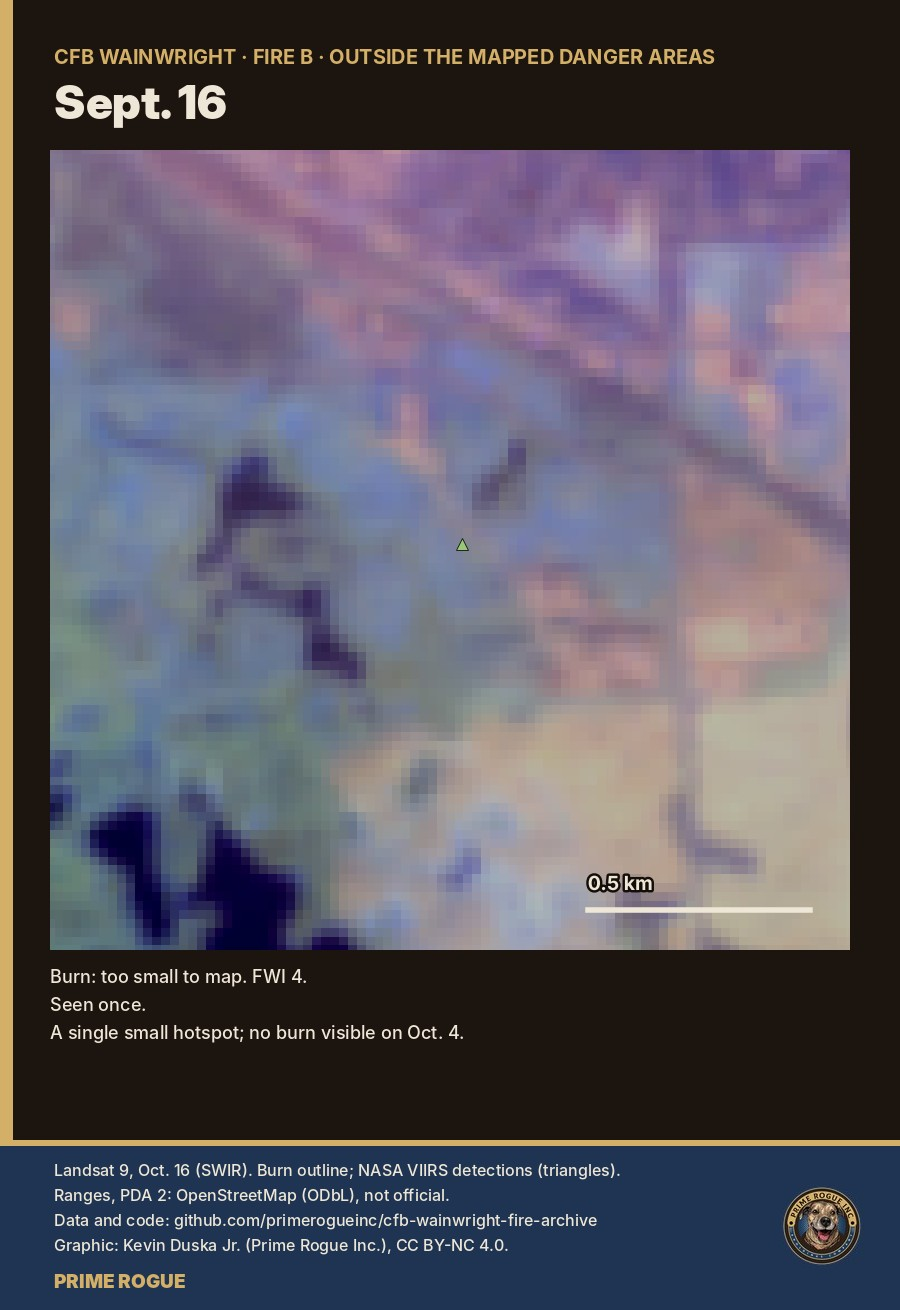
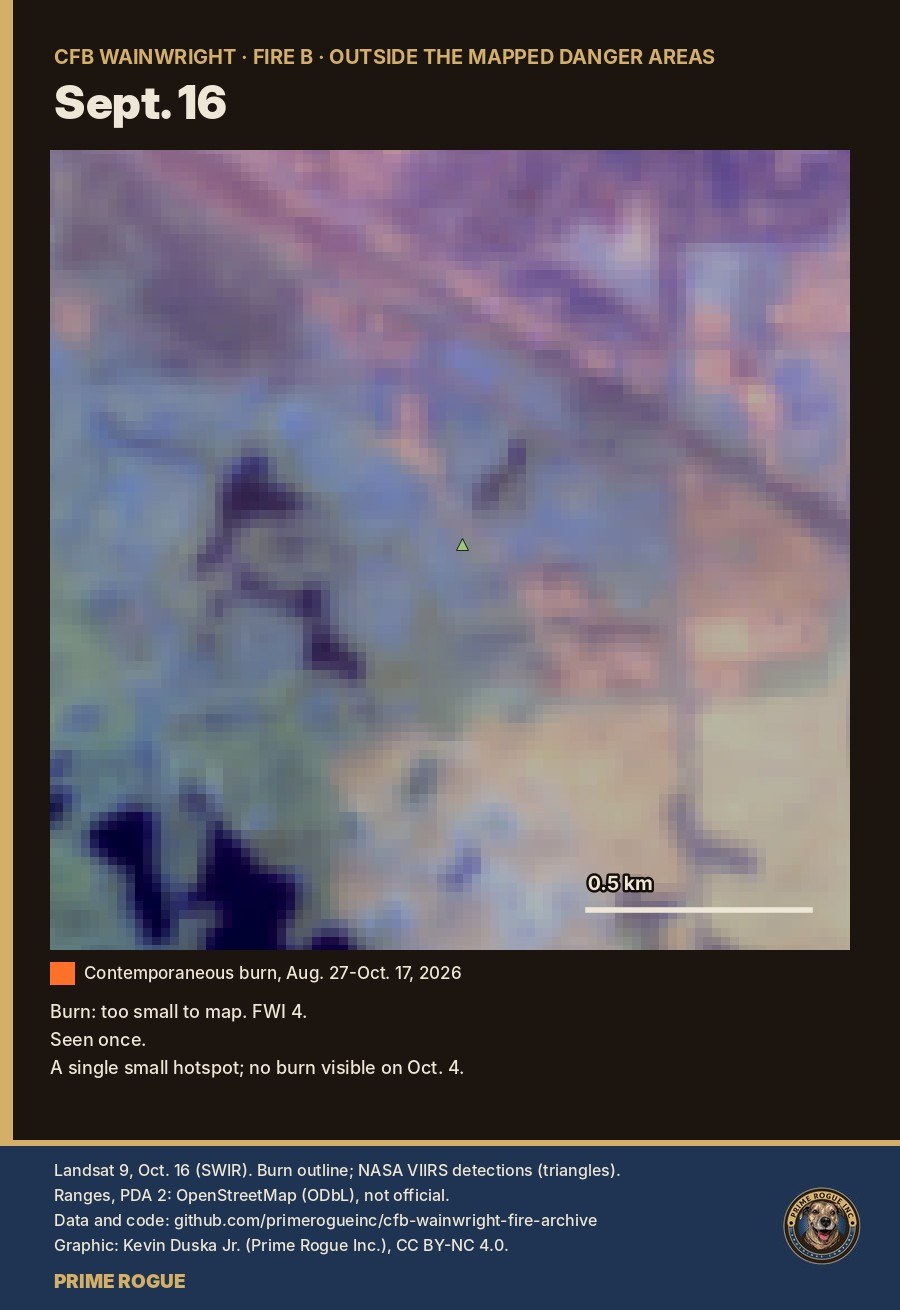
Fire maps: one fill colour for every contemporaneous burn (Aug. 27-Oct. 17, 2026), with legend; Sept. 18-20 labelled as one fire
Claude-Session: https://claude.ai/code/session_012q8DP5dH322QPmsftUvE6c

Changed region(s): [[0.0311, 0.7328, 0.4667, 0.8244], [0.4667, 0.7328, 0.4978, 0.7634]]

diff --git a/scripts/maps/g35_oct14_fire.py b/scripts/maps/g35_oct14_fire.py
@@ -34,16 +34,16 @@ SEPT = gpd.GeoSeries([_shape(g) for g, v in _ft.shapes(sept.astype("uint8"), mas
 lo, hi = np.percentile(rgb, 2, axis=(0, 1)), np.percentile(rgb, 98, axis=(0, 1)); rgb = np.clip((rgb - lo) / (hi - lo), 0, 1) * 0.75
 f, ax = fig(860, 860); ax.imshow(rgb, extent=[x0, x0 + W_ * RES, y0 - H_ * RES, y0])
 pda2.boundary.plot(ax=ax, color=hx(GOLD), lw=1.6, ls="--")
-s17.boundary.plot(ax=ax, color=hx(CREAM), lw=1.2)
-SEPT.plot(ax=ax, color=hx((214, 140, 60)), alpha=0.5, lw=0); SEPT.boundary.plot(ax=ax, color=hx((214, 140, 60)), lw=1.0)
-BR[BR.name == "oct14_burn"].plot(ax=ax, color=hx(RED), alpha=0.75, lw=0); BR[BR.name == "oct14_burn"].boundary.plot(ax=ax, color=hx(RED), lw=1.5)
+s17.plot(ax=ax, color=hx((255, 112, 40)), alpha=0.45, lw=0); s17.boundary.plot(ax=ax, color=hx(CREAM), lw=1.2)
+SEPT.plot(ax=ax, color=hx((255, 112, 40)), alpha=0.45, lw=0); SEPT.boundary.plot(ax=ax, color=hx((214, 140, 60)), lw=1.0)
+BR[BR.name == "oct14_burn"].plot(ax=ax, color=hx((255, 112, 40)), alpha=0.45, lw=0); BR[BR.name == "oct14_burn"].boundary.plot(ax=ax, color=hx(RED), lw=1.5)
 fx, fy = tf(F.longitude.values, F.latitude.values); ax.plot(fx, fy, "^", ms=6, mfc="none", mec=hx(YEL), mew=1.4)
 vx, vy = tf(-110.93891, 52.75486); ax.plot(vx, vy, "^", ms=12, mfc=hx(YEL), mec=hx(INK), mew=1.2)
 ig = fit["_sunset"]["top15"][:6]; ix, iy = tf([p["lon"] for p in ig], [p["lat"] for p in ig]); ax.plot(ix, iy, "x", ms=9, mew=2.4, color="white")
 st = dict(color=hx(CREAM), fontsize=13, weight="bold", path_effects=[pe.withStroke(linewidth=3.5, foreground=hx(INK))])
 for nm, (lo_, la_), off in (("Range 11", (-110.9577, 52.7678), (-70, 8)), ("Range 13", (-110.94249, 52.75627), (-82, 2)), ("Range 2", (-110.9063, 52.7728), (8, 6))):
     x, y = tf(lo_, la_); ax.plot(x, y, "o", ms=8, mfc="white", mec="k"); ax.annotate(nm, (x, y), off, textcoords="offset points", **st)
-for txt, (lo_, la_), c in (("Oct. 17 burn", (-110.905, 52.792), CREAM), ("Sept. 20 burn", (-110.905, 52.733), (240, 170, 90)), ("Oct. 14 burn", (-110.975, 52.742), RED), ("Permanent Danger Area 2\n(OpenStreetMap)", (-110.982, 52.792), GOLD)):
+for txt, (lo_, la_), c in (("Oct. 17 burn", (-110.905, 52.792), CREAM), ("Sept. 18-20 burn", (-110.905, 52.733), (240, 170, 90)), ("Oct. 14 burn", (-110.975, 52.742), RED), ("Permanent Danger Area 2\n(OpenStreetMap)", (-110.982, 52.792), GOLD)):
     x, y = tf(lo_, la_); ax.text(x, y, txt, color=hx(c), fontsize=14, weight="bold", path_effects=[pe.withStroke(linewidth=3.5, foreground=hx(INK))])
 ax.set_xlim(x0, x1); ax.set_ylim(y1, y0); ax.set_axis_off(); f.subplots_adjust(0, 0, 1, 1); mp = to_img(f)
 # right panel: how big it should have been
@@ -59,8 +59,8 @@ a2.set_xticks(range(3)); a2.set_xticklabels(cats, color=hx(CREAM), fontsize=12);
 a2.grid(axis="y", color=hx(GRIDC)); f2.subplots_adjust(0.12, 0.2, 0.98, 0.97); ch = to_img(f2)
 W, H = 1600, 1290
 im, d = canvas(W, H, "CFB WAINWRIGHT FIRE · BEFORE OCT. 17 · PERMANENT DANGER AREA 2",
-               "Two fires in the same danger area in the four weeks before Oct. 17",
-               f"Sept. 20: a fire of about {SEPT_KM2:.0f} km², first seen by satellite at 3:07 a.m. Oct. 14: a fire of about 1 km², seen once at 2:51 p.m.\n"
+               "Two fires in the same danger area in the month before Oct. 17",
+               f"Sept. 18-20: about {SEPT_KM2:.0f} km², first seen Sept. 18 at 3:14 p.m., still burning at 3:07 a.m. Sept. 20. Oct. 14: about 1 km², seen once at 2:51 p.m.\n"
                "Both burned inside Permanent Danger Area 2, the danger area the Provost Marshal says the Oct. 17 fire stayed in before the wind shift. Background: Landsat 9, Oct. 16.")
 im.paste(mp, (54, 200)); d = ImageDraw.Draw(im)
 xr = 54 + 860 + 40
@@ -72,10 +72,11 @@ for l, fnt, col in (("Free-burning at the standard grass-fire rate, a fire seen 
                     ("fire did before its wind shift, and started early, around", M(16), CREAM), ("6-8:30 a.m. (the earliest we tested). Or it was put out.", M(16), CREAM), ("", M(10), CREAM),
                     ("Satellite fire detections in the training area", B(18), GOLD),
                     ("Sept. 16  1:34 p.m.   north-east of the base", M(15), CREAM), ("Sept. 18  3:14 p.m.   PDA 2, about 5 km SE of the Oct. 14 burn", M(15), CREAM),
-                    ("Sept. 20  3:07 a.m. to 2:55 p.m.   PDA 2 (31 detections)", B(15), (240, 170, 90)), ("Sept. 21  1:42 p.m.   PDA 3A F1, 9.5 km west", M(15), CREAM),
+                    ("Sept. 20  3:07 a.m. to 2:55 p.m.   PDA 2, same fire (31)", B(15), (240, 170, 90)), ("Sept. 21  1:42 p.m.   PDA 3A F1, 9.5 km west", M(15), CREAM),
                     ("Oct. 14   2:51 p.m.   PDA 2, at Range 13", B(15), RED), ("Oct. 17   12:17 p.m. onward   PDA 2", B(15), CREAM)):
     d.text((xr, y), l, font=fnt, fill=col); y += 27
 lx, ly = 70, 200 + 860 - 90
+d.rectangle([lx, ly - 30, lx + 24, ly - 8], fill=(255, 112, 40)); label(d, (lx + 32, ly - 34), "Contemporaneous burn (outline: amber Sept. 18-20, red Oct. 14, white Oct. 17)", col=CREAM, size=15)
 for sym, txt in (("▲", "VIIRS detections: Sept. 20 (open), Oct. 14 (filled)"), ("x", "Best-fit start points for the Oct. 14 fire (model)")):
     label(d, (lx, ly), f"{sym}  {txt}", col=CREAM, size=15); ly += 34
 footer(im, ["Burns: Sentinel-2 Oct. 4 (L2A) vs Landsat 9 Oct. 16 (TOA), NBR thresholds per sensor (Oct. 14 burn 0.91-1.13 km² across thresholds); Sept. 20 burn as seen Oct. 4.",

diff --git a/scripts/maps/g36_fires_overview.py b/scripts/maps/g36_fires_overview.py
@@ -10,6 +10,8 @@ import matplotlib.patheffects as pe
 from matplotlib.patches import Rectangle
 tf = Transformer.from_crs(4326, 3400, always_xy=True).transform
 FC = REPO + "data/fire_compare/"
+BURN = (255, 112, 40)  # one fill for every burn from Aug. 27-Oct. 17, 2026
+LEG = "Contemporaneous burn, Aug. 27-Oct. 17, 2026"
 F = pd.read_csv(REPO + "data/firms/history_2012-2026/all_detections_merged.csv"); F = F[F.source.str.contains("VIIRS|LANDSAT") & (F.acq_date >= "2026-08-27") & (F.acq_date <= "2026-10-17")]
 F["mdt"] = pd.to_datetime(F.acq_date + " " + F.acq_time.astype(str).str.zfill(4)) - pd.Timedelta(hours=6)
 s17 = gpd.read_file(REPO + "data/infrastructure/scar_patches_revised.geojson").to_crs(3400); s17 = s17[s17.patch == "main Oct 17 run"]
@@ -40,7 +42,7 @@ def draw(ax, focus=None):
         c = g.representative_point(); ax.annotate(nm, (c.x, c.y), (4, 4), textcoords="offset points", **st(CREAM, 9 if focus is None else 11))
     for fid, lab, nm, dates, col, half in FIRES:
         g = s17 if fid == "oct17" else scar(fid)
-        if g is not None: g.boundary.plot(ax=ax, color=hx(col), lw=2.0 if focus == fid else 1.3)
+        if g is not None: g.plot(ax=ax, color=hx(BURN), alpha=0.45, lw=0); g.boundary.plot(ax=ax, color=hx(col), lw=2.0 if focus == fid else 1.3)
         d = F[F.acq_date.isin(dates)]
         if fid == "oct17": d = d[d.mdt.dt.hour < 15]
         else:
@@ -73,6 +75,7 @@ im, d = canvas(W, H, "CFB WAINWRIGHT FIRE · EVERY FIRE SATELLITES SAW, AUG. 27-
                "Boxes A-E on the overview map are shown up close below. Outlines: burn scars from Sentinel-2 (Oct. 4) and Landsat 9 (Oct. 16); triangles: NASA VIIRS fire detections.\n"
                "Background: Landsat 9 shortwave infrared, Oct. 16 (before the Oct. 17 fire; its outline is the final scar).")
 im.paste(OV, (54, 205)); d = ImageDraw.Draw(im)
+d.rectangle([70, 205 + 760 - 44, 96, 205 + 760 - 22], fill=BURN); label(d, (104, 205 + 760 - 48), LEG + "  (outline colour = fire A-E; A also includes older burns)", col=CREAM, size=15)
 # right column: comparison list
 xr = 54 + 980 + 30; y = 205
 d.text((xr, y), "How each fire behaved", font=B(22), fill=GOLD); y += 40
@@ -80,7 +83,7 @@ CMP = pd.read_csv(FC + "comparison.csv").set_index("fire")
 fwis = lambda v: (lambda a: f"{min(a):.0f}-{max(a):.0f}" if len(a) > 1 else f"{a[0]:.0f}")([float(x) for x in str(v).split(";")])
 def fmt(fid):
     if fid == "oct17": return ["Burned 10.8 km² (FWI 30.8, Extreme). Crept at about", "a sixth of the standard rate all day, then ran", "4.4-12 km/h after the 3:16 p.m. front. Four killed."]
-    if fid not in CMP.index and fid == "aug27_28": return ["Seen only at night: Aug. 27, 2:16-3:20 a.m.; Aug. 28, 2:16-3:58 a.m.", "Scar on Oct. 4 about 8.8 km², mixed with 2020-23 burns.", "Seen again Sept. 21, 1:42-3:23 p.m., same scar. (Model running.)"]
+    if fid not in CMP.index and fid == "aug27_28": return ["Seen only at night: Aug. 27 2:16-3:20, Aug. 28 2:16-3:58 a.m.", "Scar on Oct. 4 about 8.8 km², mixed with 2020-23 burns.", "Seen again Sept. 21, 1:42-3:23 p.m., same scar. (Model running.)"]
     if fid not in CMP.index: return ["(model running)"]
     c = CMP.loc[fid]; out = []
     sc = c.scar_km2
@@ -116,7 +119,8 @@ for fid, lab, nm, dates, col, half in FIRES:
     ax.plot([cx + half * 0.9 - sb, cx + half * 0.9], [cy - half * 0.9] * 2, color=hx(CREAM), lw=4); ax.text(cx + half * 0.9 - sb, cy - half * 0.85, f"{sb/1000:g} km", **st(CREAM, 14))
     f.subplots_adjust(0, 0, 1, 1); pimg = to_img(f)
     im2, d2 = canvas(900, 1310, f"CFB WAINWRIGHT · FIRE {lab} · {SUB[fid].upper()}", nm, None)
-    im2.paste(pimg, (50, 150)); d2 = ImageDraw.Draw(im2); yy = 965
+    im2.paste(pimg, (50, 150)); d2 = ImageDraw.Draw(im2); yy = 1000
+    d2.rectangle([50, 962, 74, 984], fill=BURN); d2.text((84, 962), LEG, font=M(17), fill=CREAM)
     for l in fmt(fid): d2.text((50, yy), l, font=M(18), fill=CREAM); yy += 28
     footer(im2, ["Landsat 9, Oct. 16 (SWIR). Burn outline; NASA VIIRS detections (triangles).", "Ranges, PDA 2: OpenStreetMap (ODbL), not official.", "Data and code: github.com/primerogueinc/cfb-wainwright-fire-archive", "Graphic: Kevin Duska Jr. (Prime Rogue Inc.), CC BY-NC 4.0."], fh=170)
     im2.convert("RGB").save(REPO + f"data/graphics_published/oct25_oct14_fire/cfb-wainwright-fire-{lab}-{fid}.jpg", quality=90)
